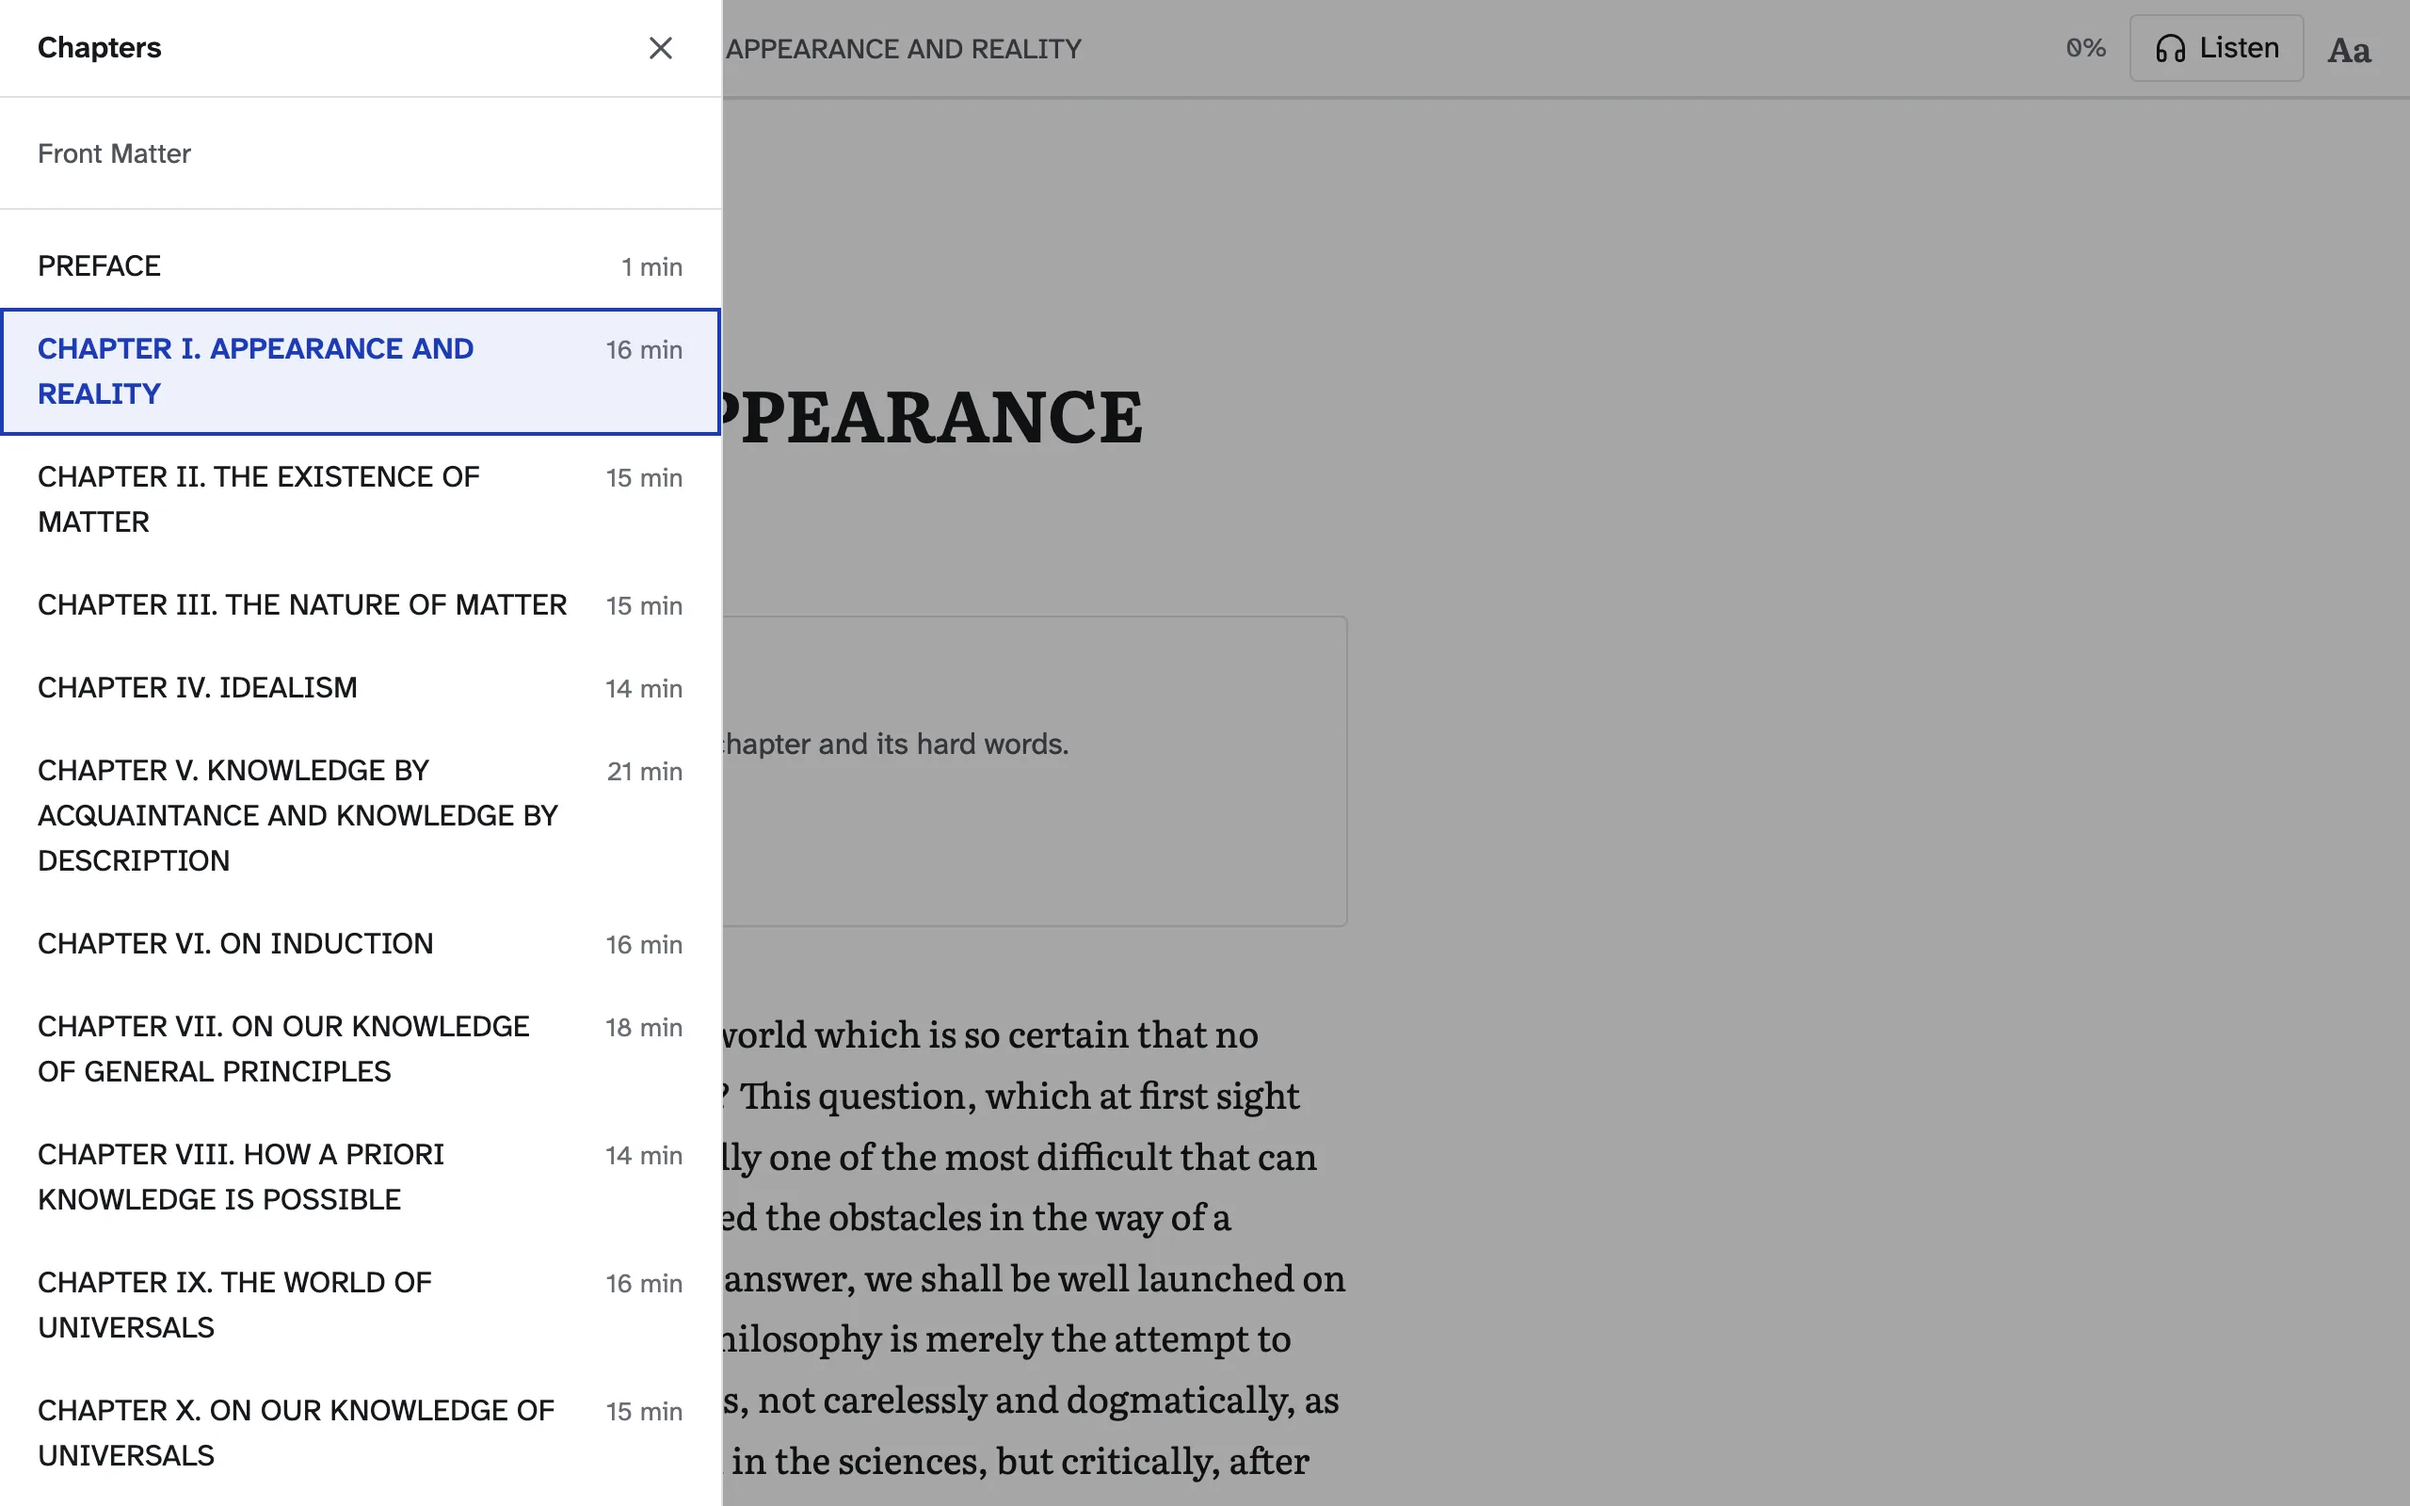
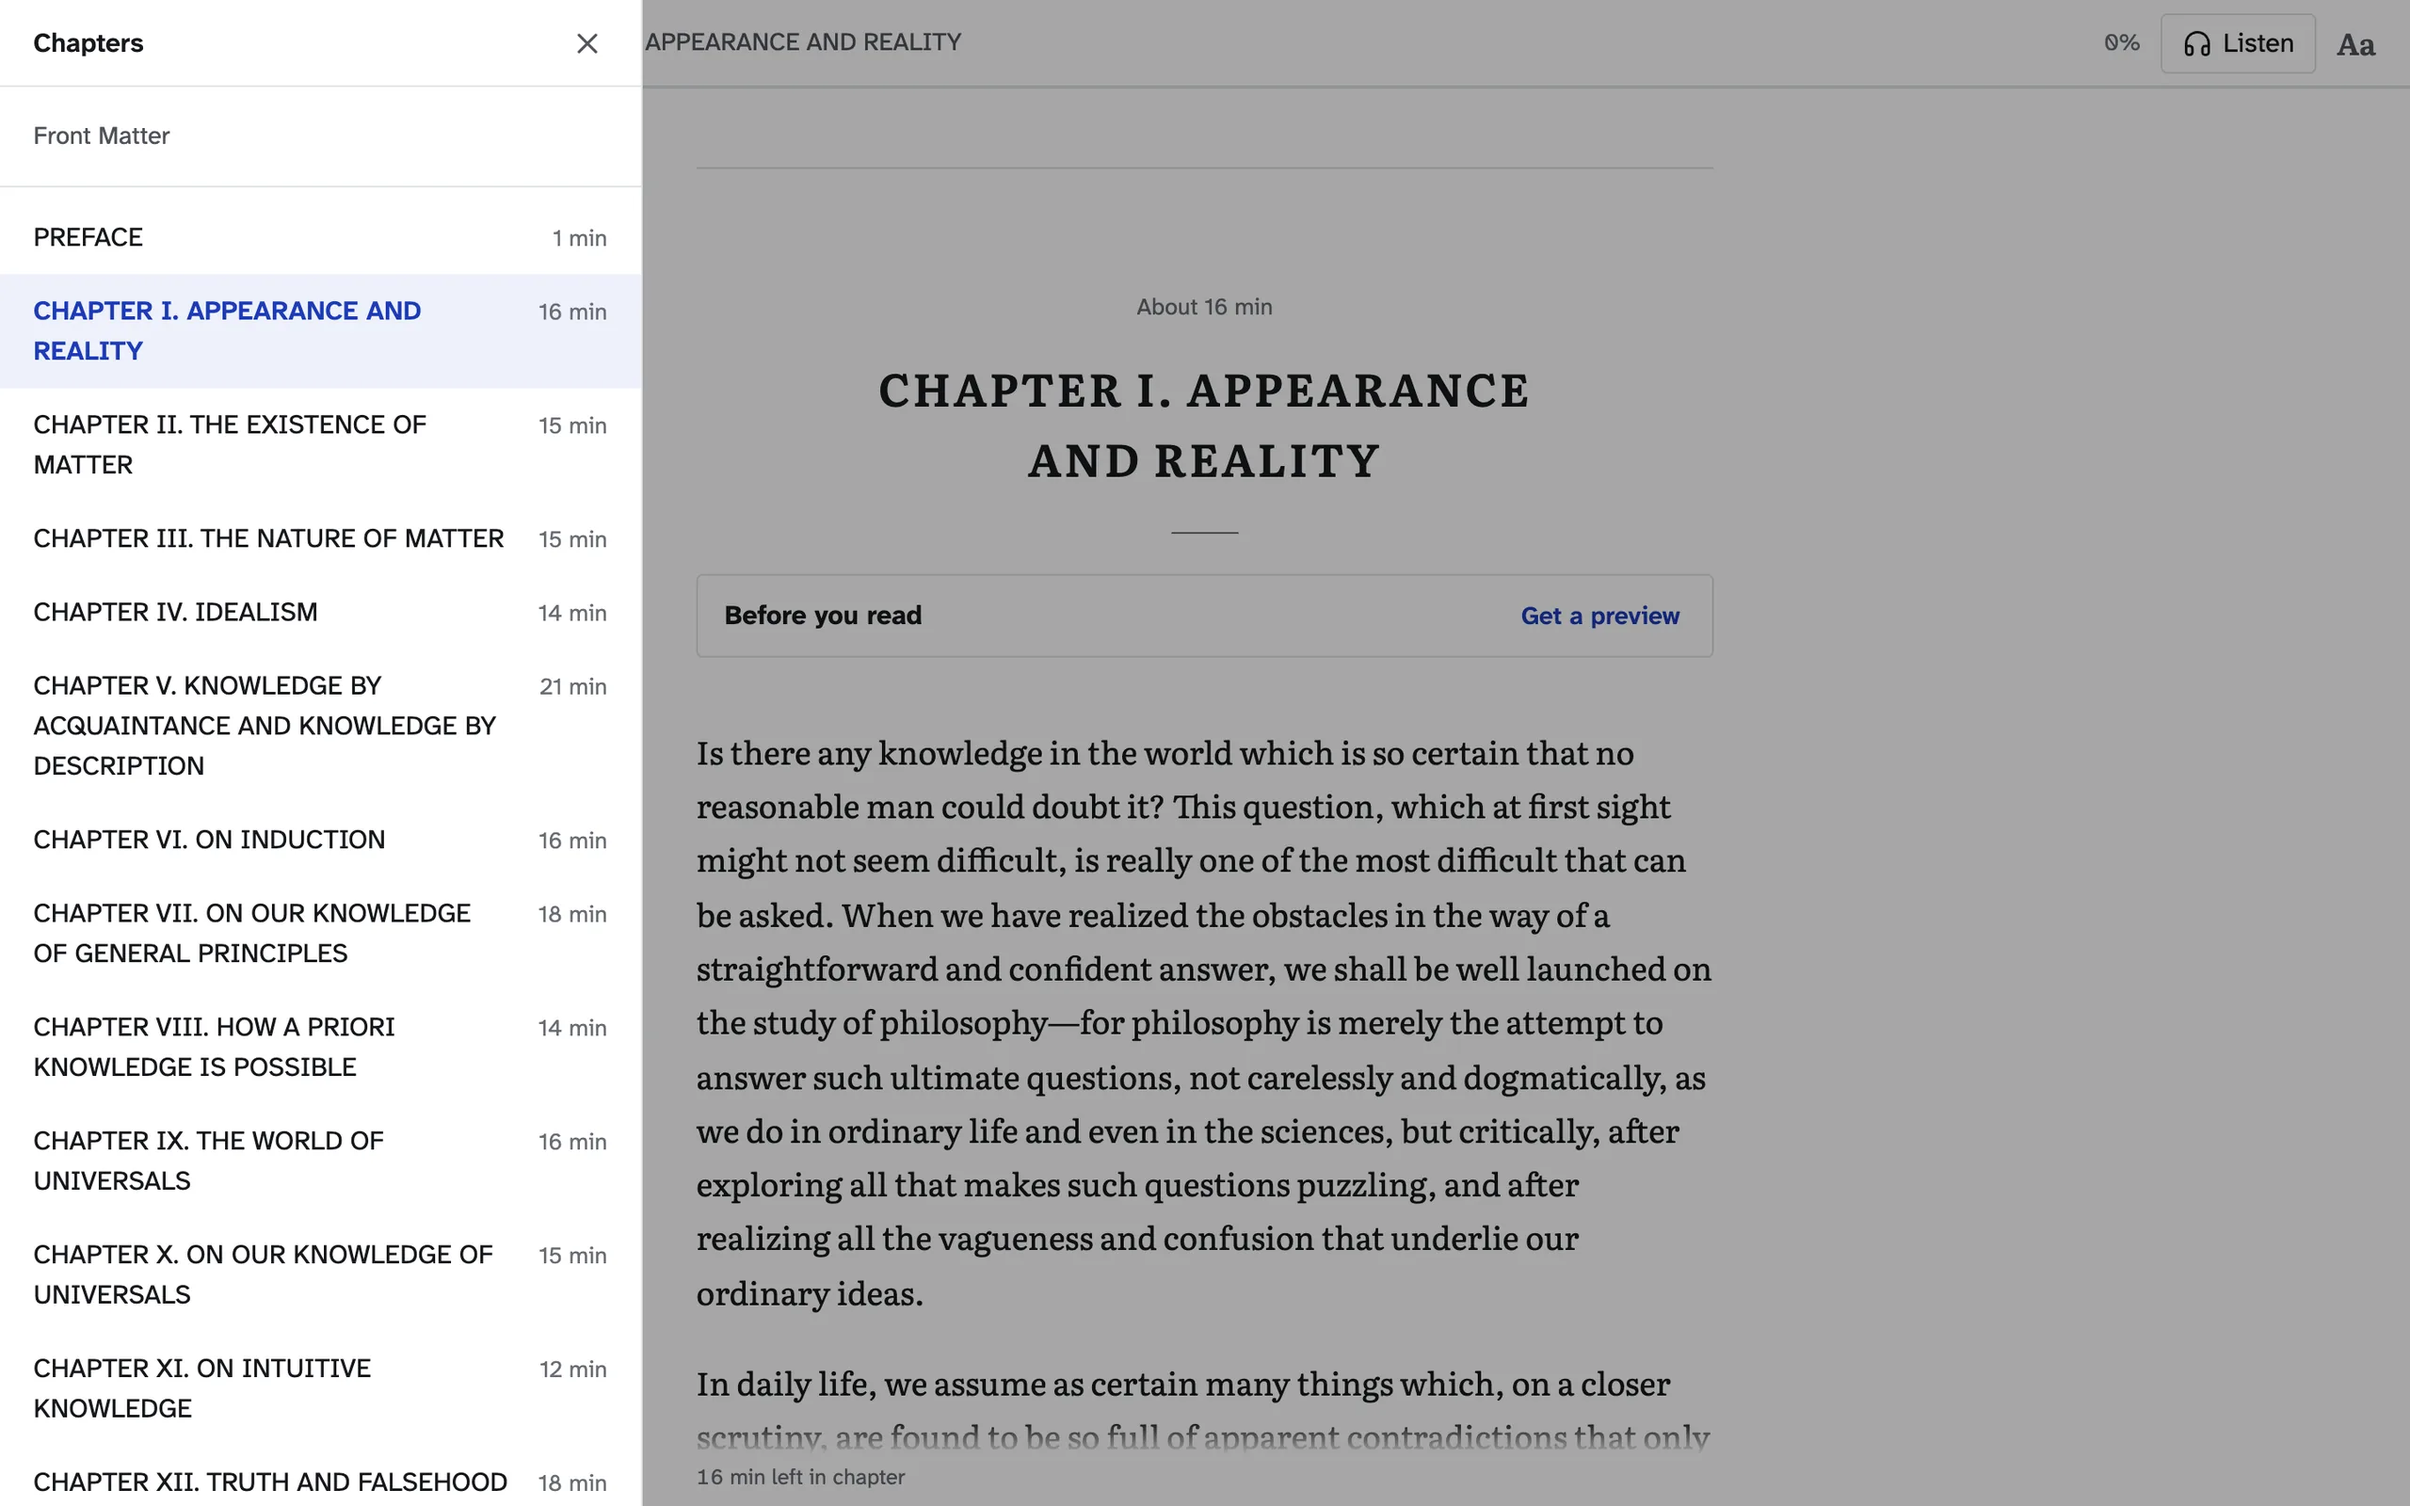
docs: show the e-reader design in the README screenshots

diff --git a/README.md b/README.md
@@ -118,7 +118,7 @@ If you have both, open **Aa** in the reader and pick one under **AI helper**.
 DeepRead remembers your choice.
 If you install one later, it shows up there the next time you open the menu.
 
-<table><tr><td><img src="docs/images/settings.webp" alt="The Aa menu with text size, theme, explanation language and the AI helper picker" width="900"></td></tr></table>
+<table><tr><td><img src="docs/images/settings.webp" alt="The Aa menu with theme, font, text size, line spacing, margins, alignment, layout, explanation language and the AI helper picker" width="900"></td></tr></table>
 
 **With no AI helper at all**, you can still read, listen, change settings, and tap a word to see a quick translation in your language.
 Only the explanations (the meaning, the example sentence and the passage notes) need an AI helper, and DeepRead tells you how to add one.
@@ -156,7 +156,7 @@ It opens at the book itself, past the title page and contents, and the next chap
 Scroll up from the start of a chapter and the one before it comes in above, without moving the text you are on, so you can re-read how the last chapter ended.
 Your place is saved as you go.
 
-<table><tr><td><img src="docs/images/reader.webp" alt="The reading view at the start of a chapter" width="900"></td></tr></table>
+<table><tr><td><img src="docs/images/reader.webp" alt="The reading view in the sepia theme at the start of a chapter: a centred chapter title, a Before you read box and the book text in one column" width="900"></td></tr></table>
 
 ### 4. Tap a word
 
@@ -182,7 +182,7 @@ Select a sentence or a paragraph, then choose what you want:
 | **In Bangla** (named after your language) | A faithful translation into your language, then a short explanation |
 | The headphones | Reading aloud from that passage |
 
-<table><tr><td><img src="docs/images/select-passage.webp" alt="A selected passage with the Explain, Example and In Bangla buttons" width="900"></td></tr></table>
+<table><tr><td><img src="docs/images/select-passage.webp" alt="A selected passage with the Explain, Example, In Bangla and Listen buttons" width="900"></td></tr></table>
 
 The answer is pinned beside the paragraph like a teacher's note, and it stays there when you come back to the book.
 
